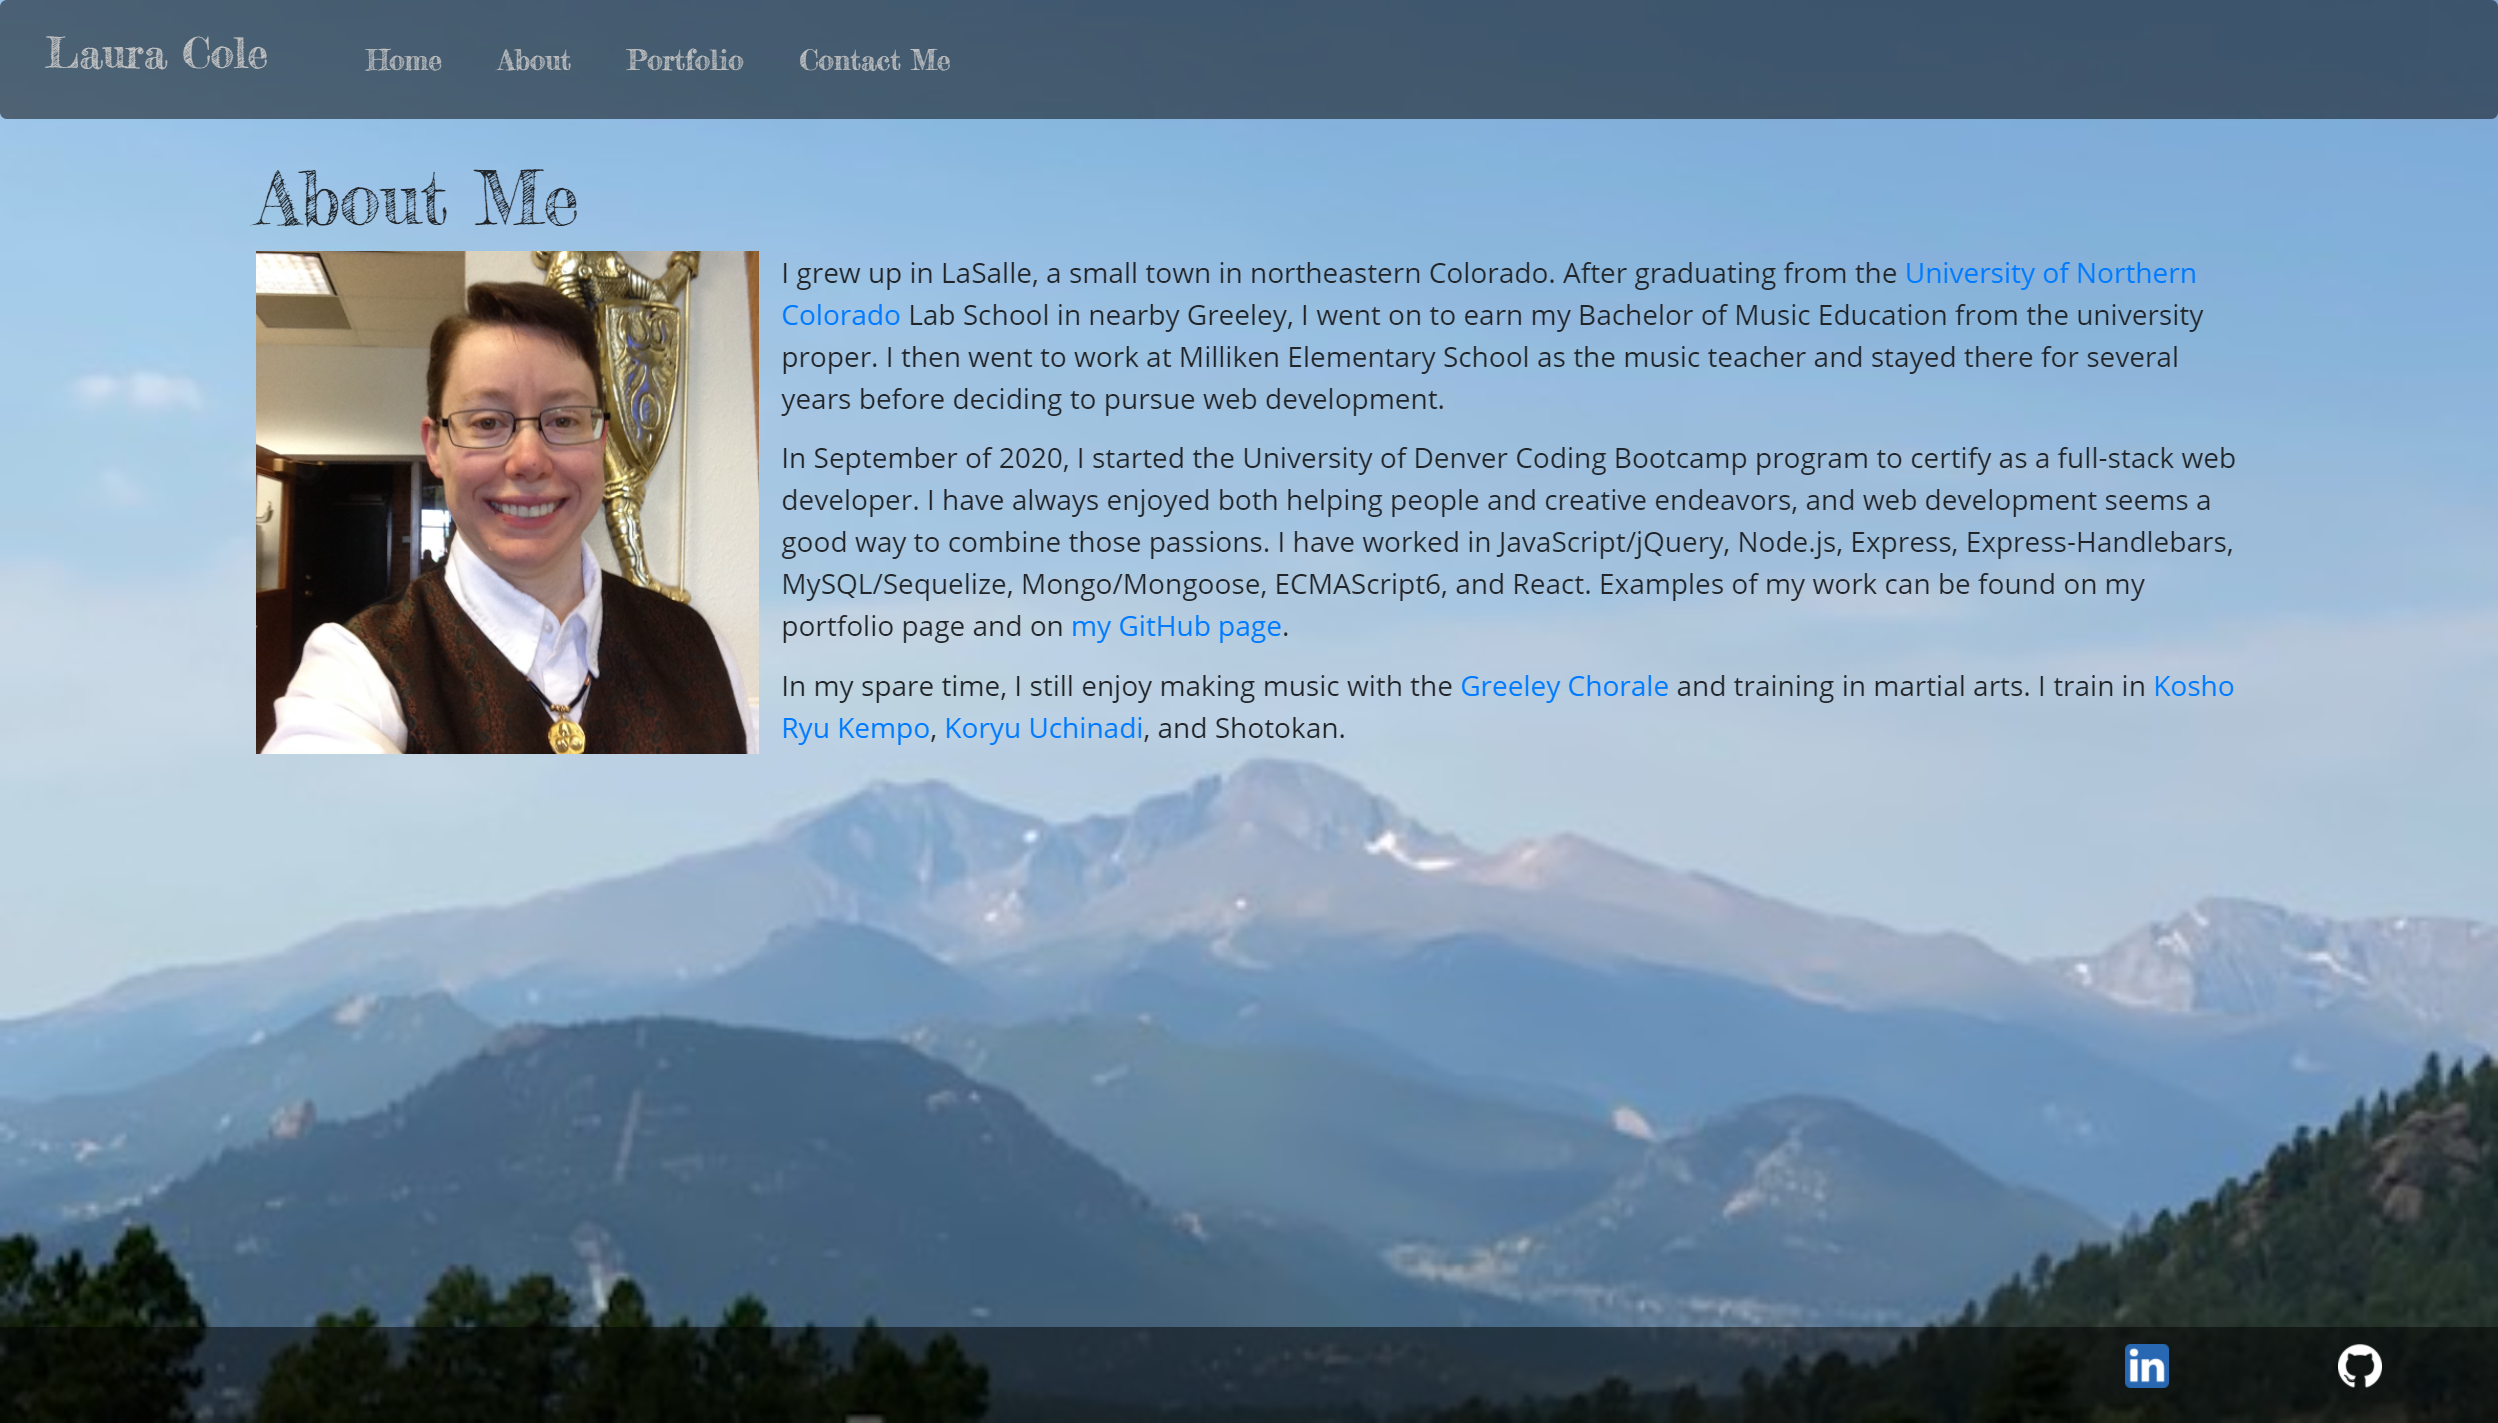
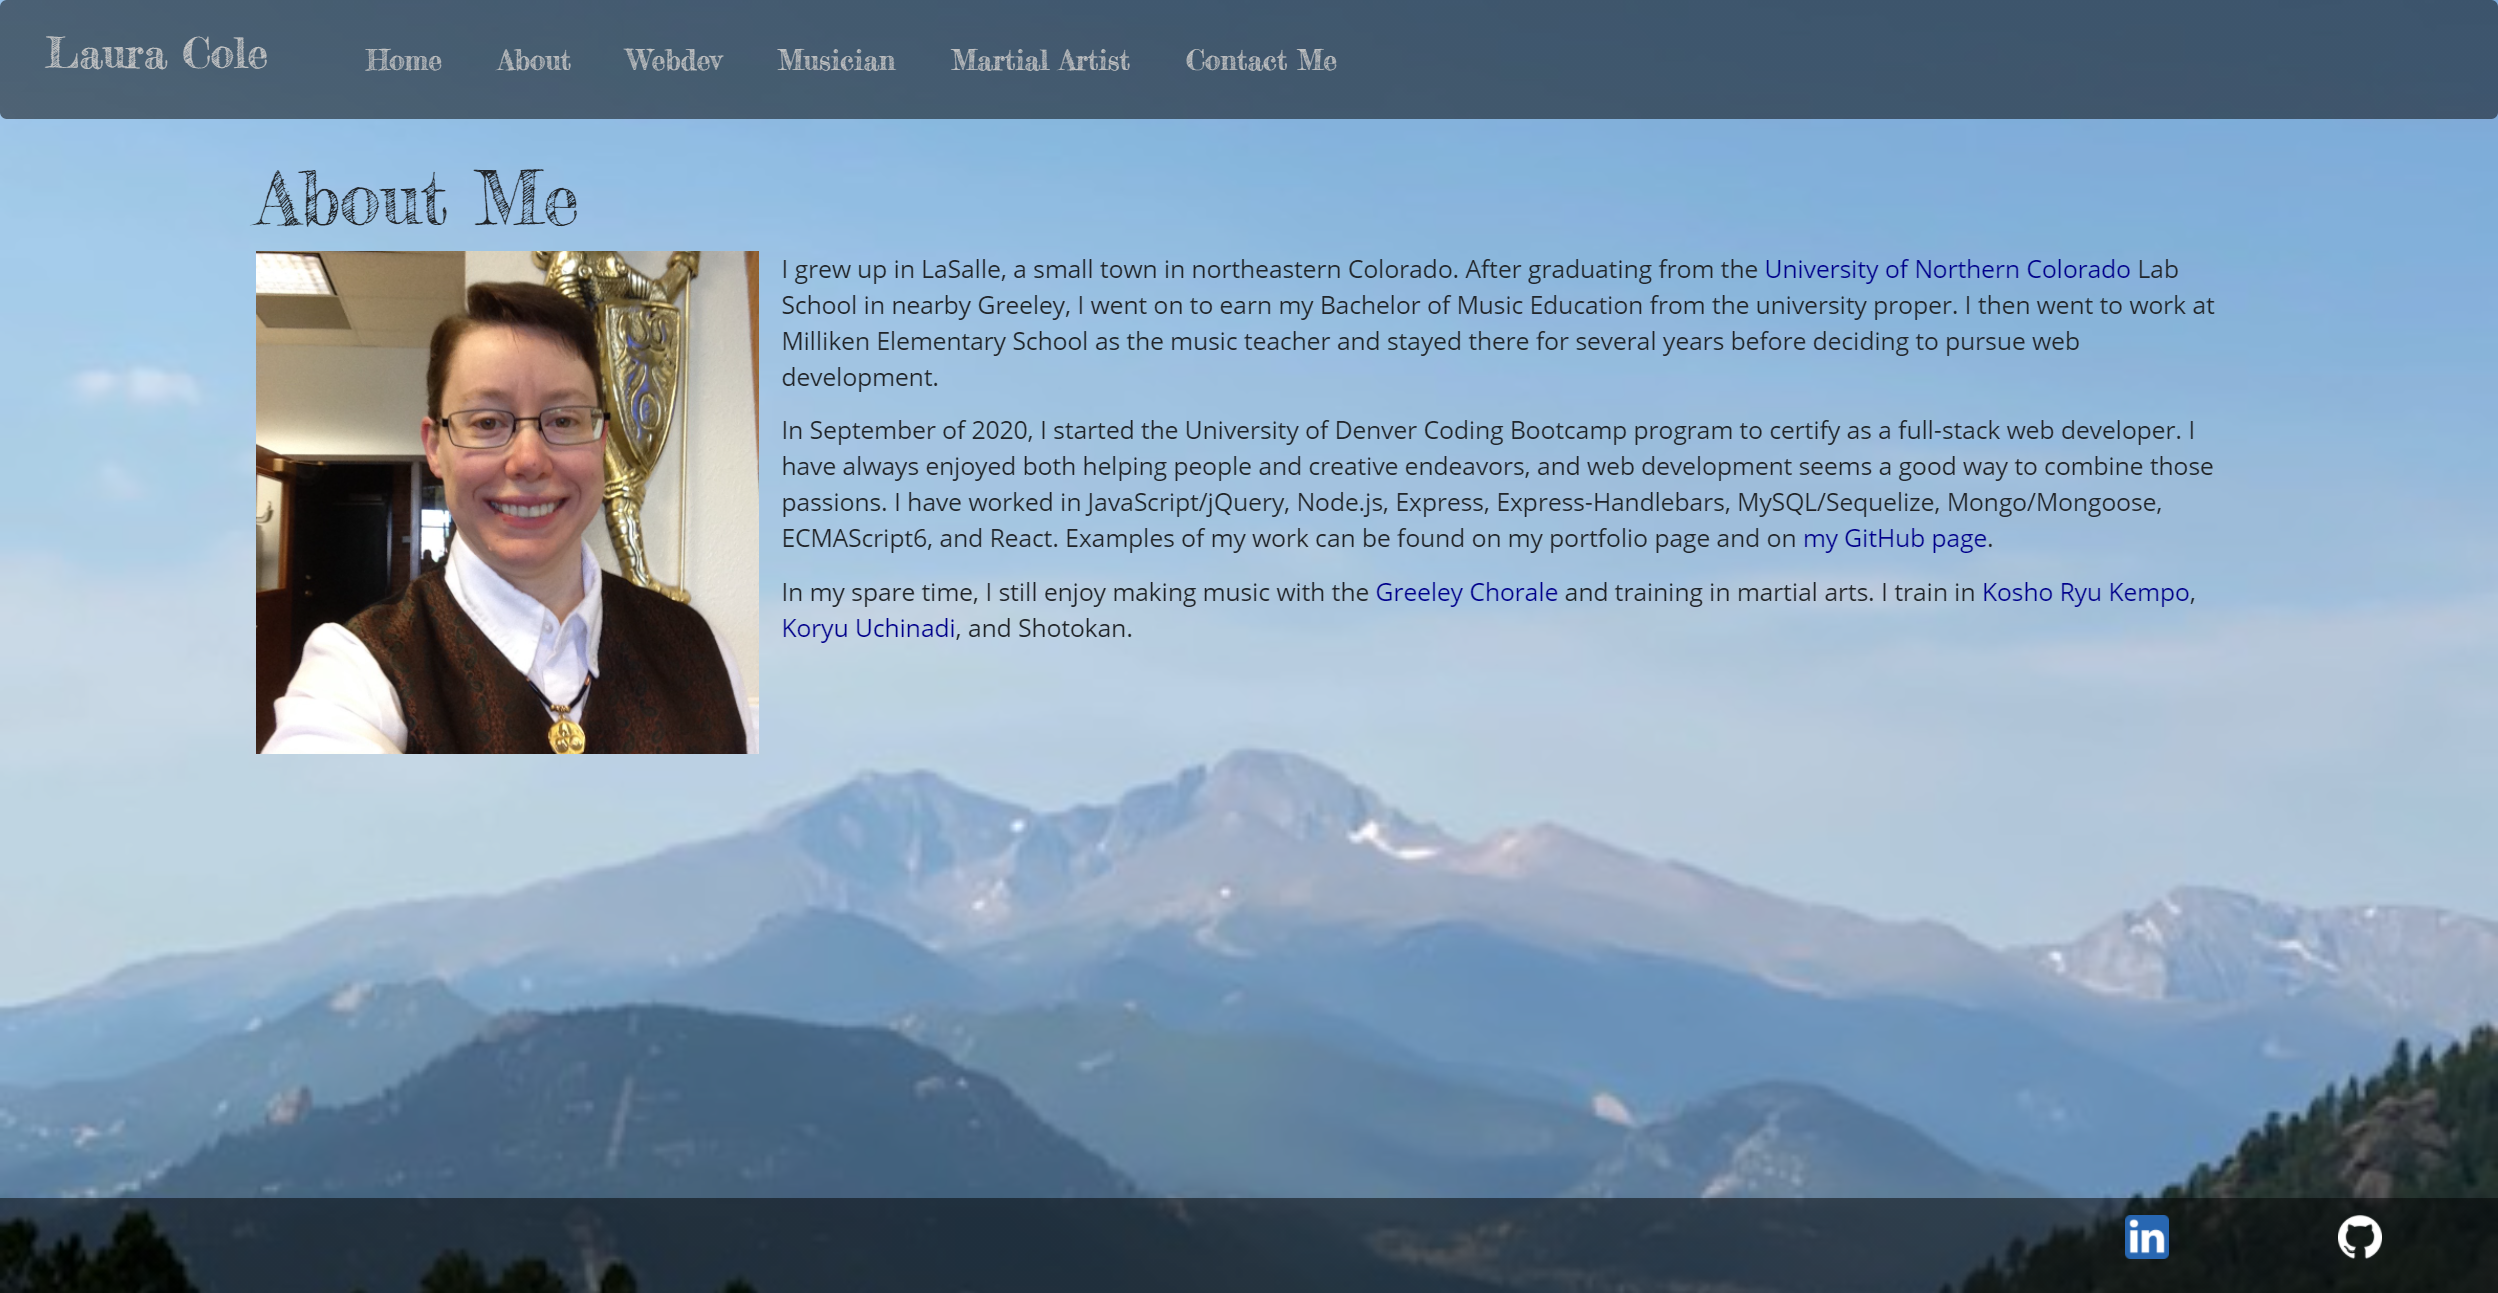
updated screenshots for README, refactored imports from pages file, updated musician page

diff --git a/my-portfolio/src/components/pages/music.js b/my-portfolio/src/components/pages/music.js
@@ -1,5 +1,6 @@
 import React from "react";
-import { Container, Row, Col } from "react-bootstrap";
+import { Container, Row, Col, Image } from "react-bootstrap";
+import choralepic from "../../pix/chorale_2.jpg"
 import "./style.css";
 
 const Musician = () => {
@@ -9,37 +10,47 @@ const Musician = () => {
       <Row>
         <Col sm={1}></Col>
         <Col sm={10}>
-          <h1>Musician</h1>
-          <h2>Mezzo-Soprano</h2>
+          <Row>
+            <h1>Musician</h1>
+          </Row>
         </Col>
       </Row>
       <Row>
         <Col sm={1}></Col>
-        <Col sm={10}>
-          <h3>Bachelor of Music Education, emphasis in Voice, University of Northern Colorado, 12/2000</h3>
-          <ul>
-            <li>Member, Concert Choir, 1998-2000</li>
-            <li>Member, Women's Glee Club, 1997-2000</li>
-          </ul>
+        <Col sm={7}>
+          <Row>
+            <h2>Mezzo-Soprano</h2>
+          </Row>
+          <Row>
+            <h3>Bachelor of Music Education, emphasis in Voice, <a href="http://www.unco.edu" rel="noreferrer noopener" target="_blank">University of Northern Colorado</a>, 12/2000</h3>
+          </Row>
+          <Row>
+            <ul>
+              <li>Member, Concert Choir, 1998-2000</li>
+              <li>Member, Women's Glee Club, 1997-2000</li>
+            </ul>
+          </Row>
+          <Row>
+            <h3>Music teacher, Milliken Elementary School, 8/2001-6/2018</h3>
+          </Row>
+          <Row>
+            <ul>
+              <li>Chose, taught and led grade-level programs every year</li>
+              <li>Created and led the choir program, 2002-2018</li>
+            </ul>
+          </Row>
+          <Row>
+            <h3>Member, <a href="http://www.greeleychorale.org" rel="noreferrer noopener" target="_blank">Greeley Chorale</a>, 2019-present</h3>
+          </Row>
+          <Row>
+            <ul>
+              <li>Soloist on October 5, 2019 concert</li>
+            </ul>
+          </Row>
         </Col>
-      </Row>
-      <Row>
-        <Col sm={1}></Col>
-        <Col sm={10}>
-          <h3>Music teacher, Milliken Elementary School, 8/2001-6/2018</h3>
-          <ul>
-            <li>Chose, taught and led grade-level programs every year</li>
-            <li>Created and led the choir program, 2002-2018</li>
-          </ul>
-        </Col>
-      </Row>
-      <Row>
-        <Col sm={1}></Col>
-        <Col sm={10}>
-          <h3>Member, Greeley Chorale, 2019-present</h3>
-          <ul>
-            <li>Soloist on October 5, 2019 concert</li>
-          </ul>
+        <Col sm={3}>
+          <Image fluid src={choralepic} alt="Laura Cole" className="mypic" />
+          <p className="caption">Picture by Susan McKenzie, used by permission</p>
         </Col>
       </Row>
     </Container>

diff --git a/my-portfolio/src/App.js b/my-portfolio/src/App.js
@@ -3,13 +3,7 @@ import React from "react";
 import { BrowserRouter as Router, Route } from "react-router-dom";
 import Container from "react-bootstrap/Container";
 import Navigation from "./components/navbar";
-import Home from "./components/pages/home.js";
-import Landing from "./components/pages/landing.js";
-import About from "./components/pages/about.js";
-import WebPortfolio from "./components/pages/webdev.js";
-import MartialArtist from "./components/pages/martialarts.js"
-import Musician from "./components/pages/music.js"
-import Contact from "./components/pages/contact.js";
+import { About, Contact, Landing, MartialArtist, Musician, WebPortfolio } from "./components/pages";
 import Footer from "./components/footer";
 
 function App() {
@@ -18,13 +12,12 @@ function App() {
       <Router>
         <Navigation />
         <Container fluid className="mycontainer">
-          <Route exact path="/react-portfolio" component={Landing} />
           <Route exact path="/about" component={About} />
           <Route exact path="/webdev" component={WebPortfolio} />
           <Route exact path="/martial_artist" component={MartialArtist} />
           <Route exact path="/musician" component={Musician} />
           <Route exact path="/contact" component={Contact} />
-          <Route path="/" component={Home} />
+          <Route exact path={["/", "/react-portfolio"]} component={Landing} />
         </Container>
         <div>
           <p>&nbsp;</p>

diff --git a/my-portfolio/src/components/pages/martialarts.js b/my-portfolio/src/components/pages/martialarts.js
@@ -16,7 +16,7 @@ const MartialArtist = () => {
       <Row>
         <Col sm={1}></Col>
         <Col sm={10}>
-          <h3><Link src="https://www.skski.net/">Kosho Ryu Kempo</Link></h3>
+          <h3><Link src="https://www.skski.net/" rel="noreferrer noopener" target="_blank">Kosho Ryu Kempo</Link></h3>
           <ul>
             <li>Years: 2014-present</li>
             <li>Current instructor: Jon Ludwig Shihan</li>
@@ -39,7 +39,7 @@ const MartialArtist = () => {
       <Row>
         <Col sm={1}></Col>
         <Col sm={10}>
-          <h3><Link src="http://www.koryu-uchinadi.com/">Koryu Uchinadi</Link></h3>
+          <h3><Link src="http://www.koryu-uchinadi.com/" rel="noreferrer noopener" target="_blank">Koryu Uchinadi</Link></h3>
           <ul>
             <li>Years: 2018-present</li>
             <li>Current instructors: Patrick McCarthy Hanshi and T. Erik Angerhofer Shihan</li>

diff --git a/my-portfolio/src/components/pages/index.js b/my-portfolio/src/components/pages/index.js
@@ -1,0 +1,6 @@
+export { default as About } from "./about";
+export { default as Contact } from "./contact";
+export { default as Landing } from "./landing";
+export { default as MartialArtist } from "./martialarts";
+export { default as Musician } from "./music";
+export { default as WebPortfolio } from "./webdev";

diff --git a/my-portfolio/src/components/pages/style.css b/my-portfolio/src/components/pages/style.css
@@ -29,6 +29,10 @@ li {
   font-family: 'Open Sans', sans-serif;
 }
 
+a {
+  color: darkblue;
+}
+
 .mypic {
   max-width: 300px;
   padding-right: 1.25em;
@@ -37,4 +41,9 @@ li {
 .icon {
   max-width: 50px;
   margin-bottom: 2em;
+}
+
+.caption {
+  font-size: 12px;
+  font-family: 'Open Sans', sans-serif;
 }

diff --git a/README.md b/README.md
@@ -30,10 +30,16 @@ Landing page:
 ![About page](assets/rp-about-page-screenshot.png)
 
 Portfolio page with all project cards showing their fronts:
-![Portfolio page](assets/rp-portfolio-page-screenshot-all-fronts.png)
+![Portfolio page card fronts](assets/rp-portfolio-page-screenshot-all-fronts.png)
 
 Portfolio page with some project cards showing their backs:
-![Portfolio page](assets/rp-portfolio-page-screenshot-backs.png)
+![Portfolio page card backs](assets/rp-portfolio-page-screenshot-backs.png)
+
+"Musician" page:
+![Musician page](assets/rp-musician-page-screenshot.png)
+
+"Martial artist" page:
+![Martial artist page](assets/rp-martial-artist-page-screenshot.png)
 
 "Contact Me" page:
 ![Contact Me page](assets/rp-contact-page-screenshot.png)
